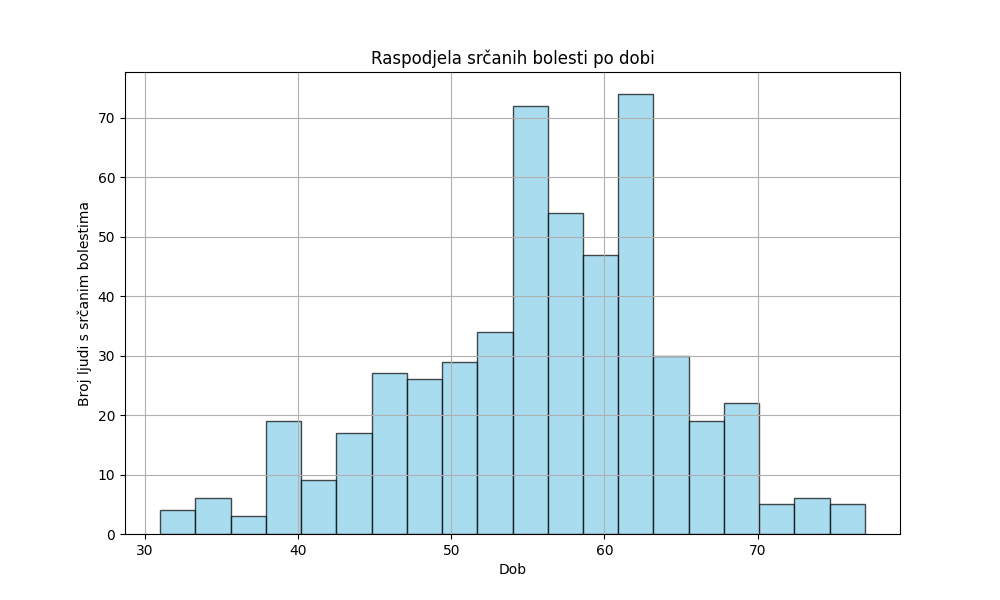
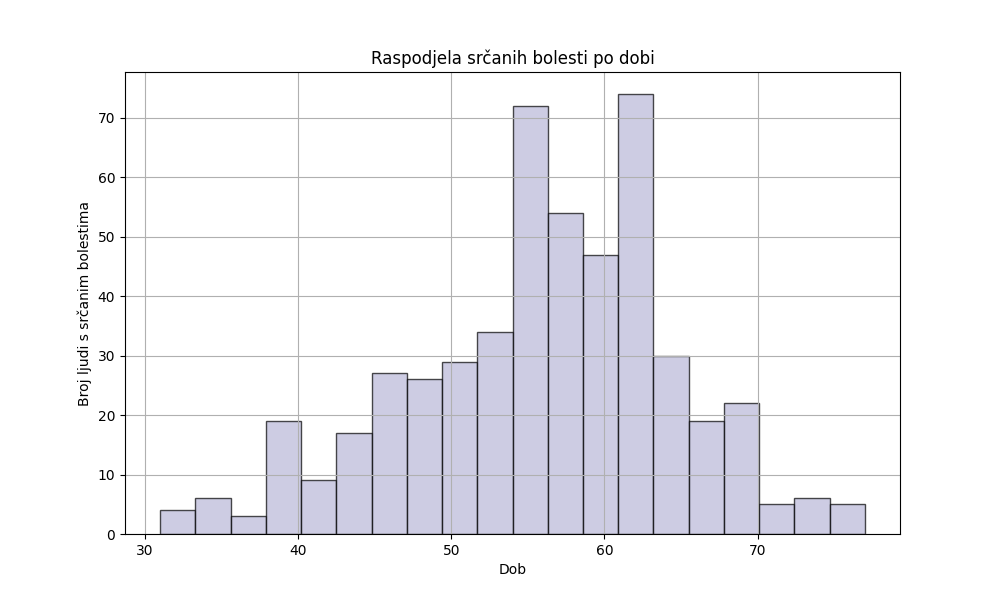
push it

Changed region(s): [[0.155, 0.15, 0.868, 0.9]]

diff --git a/static/style.css b/static/style.css
@@ -1,7 +1,7 @@
 .body1 {
     background-color: white;
     color: rgb(10, 10, 10);
-    background-image: url("../images/Slika4.png");
+    background-image: url("Slika4.png");
     background-size: cover;
     background-repeat: no-repeat;
     background-position: center;
@@ -61,9 +61,14 @@
     border: 1px solid rgba(255, 255, 255, 0.514);
 }
 
+.column {
+    flex: 1;
+    margin-right: 20px;
+}
+
 .body2 h1 {
     text-align: center;
-    margin-top: 2%;
+    margin-top: -20%;
     grid-column: 2;
     background-color: rgba(184, 183, 216, 0.5);
     margin-left: -30%;
@@ -75,7 +80,14 @@
 .labels {
     margin-left: 10%;
     grid-column: 2;
-    margin-top: -10%;
+    margin-top: -25%;
+    display: flex;
+    justify-content: space-between;
+}
+
+
+.labels input {
+    margin: 1% 1% 1% 1%;
 }
 
 .submit-btn {
@@ -84,8 +96,10 @@
     color: white;
     padding: 1% 2% 1% 2%;
     border-radius: 8px;
-    margin-left: 5%;
-
+    margin-left: 3%;
+    height: 10%;
+    margin-top: 9%;
+    border: 1px solid rgb(174, 0, 0);
 }
 
 input {
@@ -94,4 +108,82 @@ input {
 
 .result {
     background: rgb(43, 255, 0);
+}
+
+.btn4 {
+    text-decoration: none;
+    background-color: transparent;
+    color: rgb(174, 0, 0);
+    padding: 0.5% 1% 0.5% 1%;
+    border-radius: 8px;
+    width: 5%;
+    height: 9%;
+    text-align: center;
+    font-weight: 800;
+    margin-left: 92%;
+}
+
+.forma {
+    display: flex;
+    flex-direction: column;
+    width: 20%;
+    margin-left: 35%;
+    margin-top: 10%;
+    border: 4px solid rgb(174, 0, 0);
+    border-radius: 8px;
+    padding-left: 8%;
+    padding-bottom: 5%;
+    padding-top: 5%;
+    box-shadow: 0px 0px 15px rgb(174, 0, 0);
+}
+
+.body3 {
+    background-color: rgba(184, 183, 216, 0.5);
+}
+
+.sbm {
+    padding: 2% 3% 2% 3%;
+    background-color: rgb(174, 0, 0);
+    color: white;
+    border: 1px solid rgb(174, 0, 0);
+    margin-left: 20%;
+    border-radius: 8px;
+}
+
+.body3 span {
+    font-weight: 800;
+    color: rgb(174, 0, 0);
+}
+
+.btn4 {
+    text-decoration: none;
+    background-color: transparent;
+    color: rgb(174, 0, 0);
+    padding: 0.5% 1% 0.5% 1%;
+    border-radius: 8px;
+    width: 5%;
+    height: 9%;
+    text-align: center;
+    font-weight: 800;
+    margin-left: 92%;
+}
+.bodyPlot1 {
+    display: flex;
+    flex-direction: column;
+    align-items: center; /* Centriranje elemenata u sredini stranice */
+    background-color: rgba(233, 233, 249, 0.5);
+
+
+}
+.plotTitle {
+    text-align: center;
+    margin-top: 3%; /* Prilagodite margine prema potrebi */
+    font-size: 3em;
+    padding: 20px;   
+    background-color: rgba(184, 183, 216, 0.5);
+    color: rgb(174, 0, 0);
+}
+
+img {
+    max-width: 100%; /* Ograničavanje širine slike na 100% širine roditeljskog elementa */
 }

diff --git a/templates/login.html b/templates/login.html
@@ -1,0 +1,29 @@
+    <!DOCTYPE html>
+    <html lang="en">
+
+    <head>
+        <meta charset="UTF-8">
+        <meta name="viewport" content="width=device-width, initial-scale=1.0">
+        <title>LOGIN</title>
+        <link rel="stylesheet" href="{{ url_for('static', filename='style.css') }}">
+    </head>
+
+    <body class="body3">
+        <div class="forma">
+        <h1>LOGIN</h1>
+        {% if message %}
+        <p>{{ message }}</p>
+        {% endif %}
+    
+        <form action="/login" method="POST">
+            <label for="username">Username:</label><br>
+            <input type="text" id="username" name="username" required><br>
+            <label for="password">Password:</label><br>
+            <input type="password" id="password" name="password" required><br><br>
+            <button type="submit" class="sbm">Login</button><br>
+        </form>
+        <p>Don't have an account? <a href="/signup"><span>Sign up</span></a></p>
+    </div>
+    </body>
+
+    </html>

diff --git a/templates/signup.html b/templates/signup.html
@@ -1,0 +1,28 @@
+<!DOCTYPE html>
+<html lang="en">
+
+<head>
+    <meta charset="UTF-8">
+    <meta name="viewport" content="width=device-width, initial-scale=1.0">
+    <title>Sign Up</title>
+    <link rel="stylesheet" href="{{ url_for('static', filename='style.css') }}">
+</head>
+
+<body class="body3">
+    <div class="forma">
+    <h1>Sign Up</h1>
+    {% if message %}
+    <p>{{ message }}</p>
+    {% endif %}
+    <form action="/signup" method="POST">
+        <label for="username">Username:</label><br>
+        <input type="text" id="username" name="username" required><br>
+        <label for="password">Password:</label><br>
+        <input type="password" id="password" name="password" required><br><br>
+        <button type="submit" class="sbm">Register</button><br>
+    </form>
+    <p>Already have an account? <a href="/login"><br><br><span>Login here</span></a></p>
+</div>
+</body>
+
+</html>

diff --git a/templates/page1.html b/templates/page1.html
@@ -9,9 +9,11 @@
 </head>
 
 <body class="body2">
-    <h1>Enter your data and test possibility of heart failure</h1>
+    <a href="index.html" class="btn4">LOGOUT</a>
+    <h1 class="naslov">Enter your data and test possibility of heart failure</h1>
     <form action="/predict" method="POST">
         <div class="labels">
+            <div class="column">
             <label for="age">Age:</label>
             <input type="text" id="age" name="age">
             <label for="sex">Sex:</label>

diff --git a/templates/index.html b/templates/index.html
@@ -1,0 +1,20 @@
+<!DOCTYPE html>
+
+<head>
+    <meta charset="UTF-8">
+    <meta name="viewport" content="width=device-width, initial-scale=1.0">
+    <title>My Web Page</title>
+    <link rel="stylesheet" href="../static/style.css">
+</head>
+
+<body class="body1">
+    <h1>Knowledge is a key:<br>
+        Predicting Heart Health<br>
+        for better Life.
+    </h1>
+
+    <a href="/login" class="btn1">Login</a>
+    <a href="/signup" class="btn2">Register</a>
+</body>
+
+</html>

diff --git a/templates/plot3.html b/templates/plot3.html
@@ -6,11 +6,12 @@
     <meta name="viewport" content="width=device-width, initial-scale=1.0">
     <title>Graf</title>
     <link rel="stylesheet" href="../static/style.css">
+    <link rel="stylesheet" href="../static/style.css">
 
 </head>
 
-<body>
-    <h1>Graf povezanosti između dobi i bolesti srca</h1>
+<body class="bodyPlot1">
+    <h1 class="plotTitle">Graf povezanosti između dobi i bolesti srca</h1>
     <img src="{{ graph3 }}" alt="Graph">
 
     

diff --git a/templates/plot.html b/templates/plot.html
@@ -5,10 +5,13 @@
     <meta charset="UTF-8">
     <meta name="viewport" content="width=device-width, initial-scale=1.0">
     <title>Graf</title>
+    <link rel="stylesheet" href="../static/style.css">
+
 </head>
 
-<body>
-    <h1>Graf povezanosti između dobi i bolesti srca</h1>
+<body class="bodyPlot1">
+    
+    <h1 class="plotTitle">Graf povezanosti između dobi i bolesti srca</h1>
     <img src="{{ graph }}" alt="Graph">
 </body>
 

diff --git a/templates/plot2.html b/templates/plot2.html
@@ -5,10 +5,12 @@
     <meta charset="UTF-8">
     <meta name="viewport" content="width=device-width, initial-scale=1.0">
     <title>Graf</title>
+    <link rel="stylesheet" href="../static/style.css">
+
 </head>
 
-<body>
-    <h1>Graf povezanosti između dobi i bolesti srca</h1>
+<body class="bodyPlot1">
+    <h1 class="plotTitle">Graf povezanosti između dobi i bolesti srca</h1>
     <img src="{{ graph2 }}" alt="Graph">
 </body>
 

diff --git a/login_signup.py b/login_signup.py
@@ -1,0 +1,58 @@
+from flask import Flask, render_template, request, redirect, url_for
+from flask import session
+
+app = Flask(__name__)
+
+users = {
+    'user1': {'username': 'user1', 'password': 'password1'},
+    'user2': {'username': 'user2', 'password': 'password2'}
+}
+
+
+@app.route('/')
+def index():
+    return render_template('index.html')
+
+
+@app.route('/login', methods=['GET', 'POST'])
+def login():
+    if request.method == 'POST':
+        username = request.form['username']
+        password = request.form['password']
+        if username in users and users[username]['password'] == password:
+            return redirect(url_for('page1', username=username))
+        elif username in users and users[username]['password'] == password:
+            session['logged_in'] = True
+            session['username'] = username
+        else:
+            return render_template('login.html', message='Invalid username or password.')
+    return render_template('login.html', message='')
+
+
+@app.route('/signup', methods=['GET', 'POST'])
+def signup():
+    if request.method == 'POST':
+        username = request.form['username']
+        password = request.form['password']
+        if username in users:
+            return render_template('signup.html', message='Username already exists.')
+        else:
+            users[username] = {'username': username, 'password': password}
+            return redirect(url_for('login'))
+    return render_template('signup.html', message='')
+
+
+@app.route('/page1/<username>')
+def page1(username):
+    return render_template('page1.html', username=username)
+
+
+if __name__ == '__main__':
+    app.run(debug=True)
+
+
+@app.route('/logout')
+def logout():
+    session.pop('logged_in', None)
+    session.pop('username', None)
+    return redirect(url_for(''))

diff --git a/model.py b/model.py
@@ -91,7 +91,7 @@ def graph():
 
     # Crtanje grafa
     plt.figure(figsize=(10, 6))
-    plt.hist(srčane_bolesti, bins=20, color='skyblue', edgecolor='black', alpha=0.7)
+    plt.hist(srčane_bolesti, bins=20, color='#B8B7D8', edgecolor='black', alpha=0.7)
     plt.title('Raspodjela srčanih bolesti po dobi')
     plt.xlabel('Dob')
     plt.ylabel('Broj ljudi s srčanim bolestima')
@@ -114,7 +114,7 @@ def graph2():
 
     # Crtanje grafa
     plt.figure(figsize=(10, 6))
-    plt.hist(srčane_bolesti, bins=20, color='skyblue', edgecolor='black', alpha=0.7)
+    plt.hist(srčane_bolesti, bins=20, color='#B8B7D8', edgecolor='black', alpha=0.7)
     plt.title('Raspodjela srčanih bolesti po dobi')
     plt.xlabel('Spol')
     plt.ylabel('Broj ljudi s srčanim bolestima')
@@ -134,7 +134,7 @@ def graph3():
     srčane_bolesti = df[df['HeartDisease'] == 1]['Cholesterol']
 
     plt.figure(figsize=(10, 6))
-    plt.hist(srčane_bolesti, bins=20, color='skyblue', edgecolor='black', alpha=0.7)
+    plt.hist(srčane_bolesti, bins=20, color='#B8B7D8', edgecolor='black', alpha=0.7)
     plt.title('Raspodjela srčanih bolesti po dobi')
     plt.xlabel('Kolesterol')
     plt.ylabel('Broj ljudi s srčanim bolestima')
